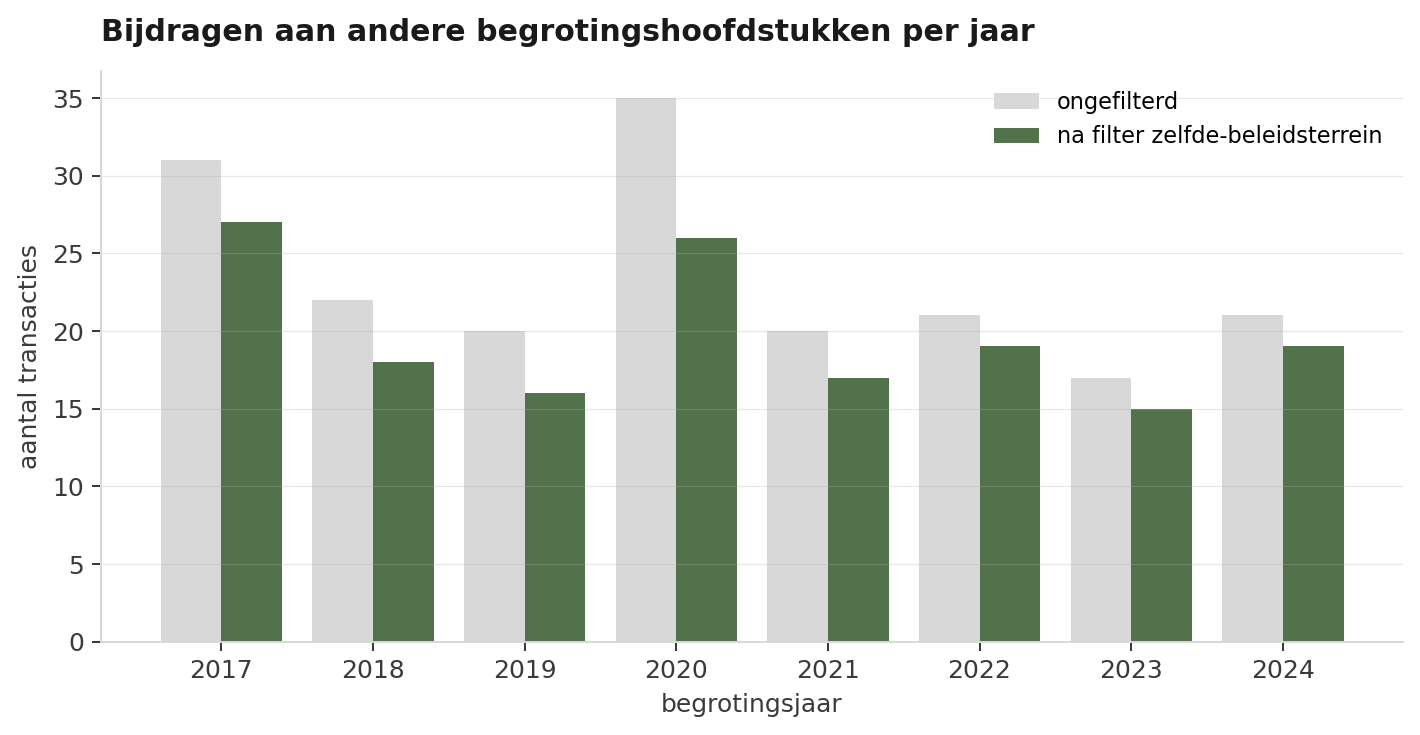
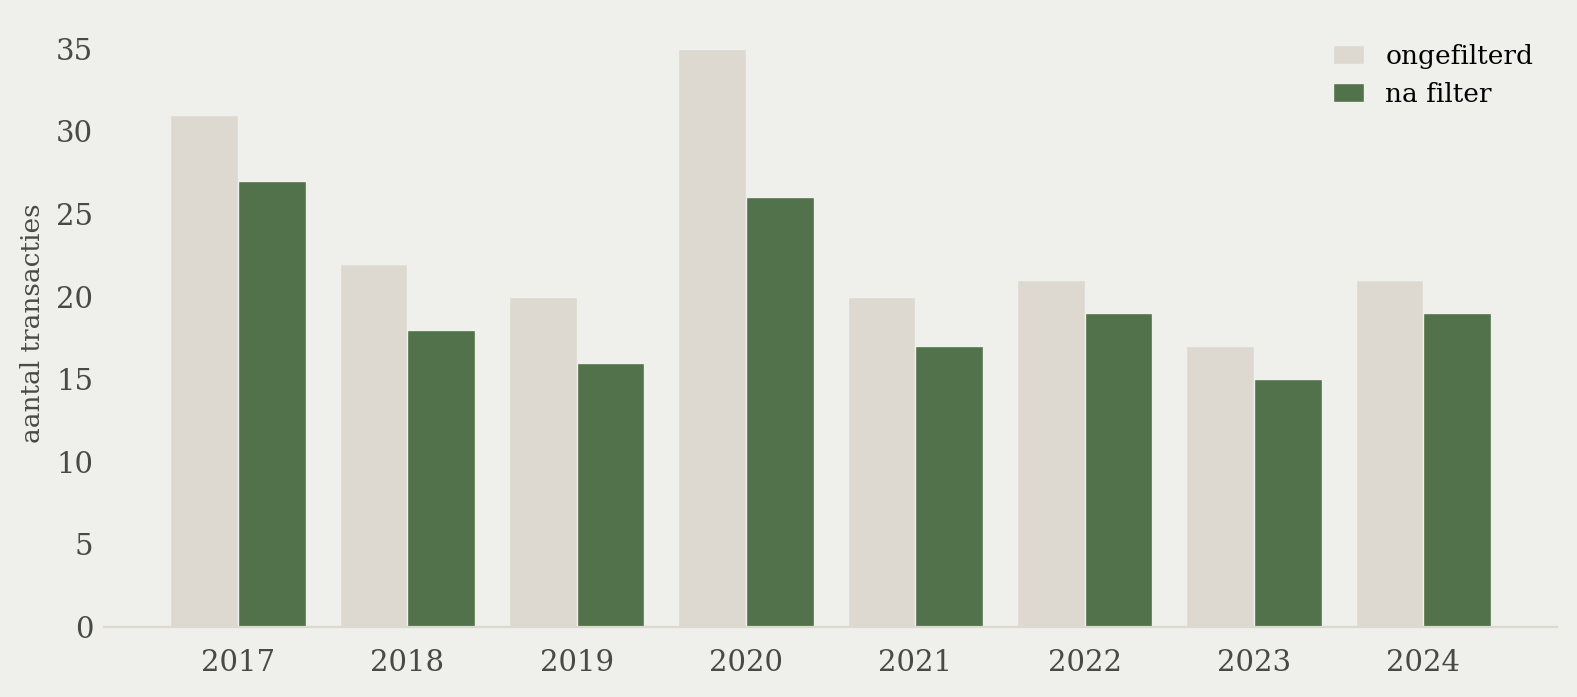
fix: charts in Delta-stijl (offwhite blend, geen titel/border), gefilterde distributie, eindtabel native HTML

diff --git a/artikelen/interdepartementale-geldstromen-rijksbegroting/index.html b/artikelen/interdepartementale-geldstromen-rijksbegroting/index.html
@@ -455,8 +455,6 @@ pre code {
   display: block;
   max-width: 100%;
   height: auto;
-  border: 1px solid var(--c-border);
-  border-radius: 4px;
 }
 .fig figcaption {
   font-size: 0.82rem;
@@ -623,14 +621,14 @@ pre code {
   <div class="mobile-toc-progress"></div>
   <div class="mobile-toc-drawer">
     <ol>
-      <li><a data-target="wat-we-hebben-onderzocht-h2" href="#wat-we-hebben-onderzocht-h2">Wat we hebben onderzocht (H2)</a></li>
-        <li><a data-target="wat-het-op-het-eerste-gezicht-lijkt-en-wat-het-niet-is-h2" href="#wat-het-op-het-eerste-gezicht-lijkt-en-wat-het-niet-is-h2">Wat het op het eerste gezicht lijkt — en wat het niet is (H2)</a></li>
-        <li><a data-target="twee-ministeries-dragen-het-patroon-h2" href="#twee-ministeries-dragen-het-patroon-h2">Twee ministeries dragen het patroon (H2)</a></li>
-        <li><a data-target="zeven-kanalen-die-terugkeren-h2" href="#zeven-kanalen-die-terugkeren-h2">Zeven kanalen die terugkeren (H2)</a></li>
-        <li><a data-target="distributie-niets-staat-op-zichzelf-h2" href="#distributie-niets-staat-op-zichzelf-h2">Distributie: niets staat op zichzelf (H2)</a></li>
-        <li><a data-target="wat-het-instrument-niet-laat-zien-h2" href="#wat-het-instrument-niet-laat-zien-h2">Wat het instrument niet laat zien (H2)</a></li>
-        <li><a data-target="conclusie-h2" href="#conclusie-h2">Conclusie (H2)</a></li>
-        <li><a data-target="methodologie-en-bronnen-h2" href="#methodologie-en-bronnen-h2">Methodologie en bronnen (H2)</a></li>
+      <li><a data-target="wat-we-hebben-onderzocht" href="#wat-we-hebben-onderzocht">Wat we hebben onderzocht</a></li>
+        <li><a data-target="wat-het-op-het-eerste-gezicht-lijkt-en-wat-het-niet-is" href="#wat-het-op-het-eerste-gezicht-lijkt-en-wat-het-niet-is">Wat het op het eerste gezicht lijkt — en wat het niet is</a></li>
+        <li><a data-target="twee-ministeries-dragen-het-patroon" href="#twee-ministeries-dragen-het-patroon">Twee ministeries dragen het patroon</a></li>
+        <li><a data-target="zeven-kanalen-die-terugkeren" href="#zeven-kanalen-die-terugkeren">Zeven kanalen die terugkeren</a></li>
+        <li><a data-target="distributie-niets-staat-op-zichzelf" href="#distributie-niets-staat-op-zichzelf">Distributie: niets staat op zichzelf</a></li>
+        <li><a data-target="wat-het-instrument-niet-laat-zien" href="#wat-het-instrument-niet-laat-zien">Wat het instrument niet laat zien</a></li>
+        <li><a data-target="conclusie" href="#conclusie">Conclusie</a></li>
+        <li><a data-target="methodologie-en-bronnen" href="#methodologie-en-bronnen">Methodologie en bronnen</a></li>
     </ol>
   </div>
 </div>
@@ -644,14 +642,14 @@ pre code {
     <div class="toc-wrap">
       <div class="toc-track"></div>
       <ol>
-        <li><a data-target="wat-we-hebben-onderzocht-h2" href="#wat-we-hebben-onderzocht-h2">Wat we hebben onderzocht (H2)</a></li>
-        <li><a data-target="wat-het-op-het-eerste-gezicht-lijkt-en-wat-het-niet-is-h2" href="#wat-het-op-het-eerste-gezicht-lijkt-en-wat-het-niet-is-h2">Wat het op het eerste gezicht lijkt — en wat het niet is (H2)</a></li>
-        <li><a data-target="twee-ministeries-dragen-het-patroon-h2" href="#twee-ministeries-dragen-het-patroon-h2">Twee ministeries dragen het patroon (H2)</a></li>
-        <li><a data-target="zeven-kanalen-die-terugkeren-h2" href="#zeven-kanalen-die-terugkeren-h2">Zeven kanalen die terugkeren (H2)</a></li>
-        <li><a data-target="distributie-niets-staat-op-zichzelf-h2" href="#distributie-niets-staat-op-zichzelf-h2">Distributie: niets staat op zichzelf (H2)</a></li>
-        <li><a data-target="wat-het-instrument-niet-laat-zien-h2" href="#wat-het-instrument-niet-laat-zien-h2">Wat het instrument niet laat zien (H2)</a></li>
-        <li><a data-target="conclusie-h2" href="#conclusie-h2">Conclusie (H2)</a></li>
-        <li><a data-target="methodologie-en-bronnen-h2" href="#methodologie-en-bronnen-h2">Methodologie en bronnen (H2)</a></li>
+        <li><a data-target="wat-we-hebben-onderzocht" href="#wat-we-hebben-onderzocht">Wat we hebben onderzocht</a></li>
+        <li><a data-target="wat-het-op-het-eerste-gezicht-lijkt-en-wat-het-niet-is" href="#wat-het-op-het-eerste-gezicht-lijkt-en-wat-het-niet-is">Wat het op het eerste gezicht lijkt — en wat het niet is</a></li>
+        <li><a data-target="twee-ministeries-dragen-het-patroon" href="#twee-ministeries-dragen-het-patroon">Twee ministeries dragen het patroon</a></li>
+        <li><a data-target="zeven-kanalen-die-terugkeren" href="#zeven-kanalen-die-terugkeren">Zeven kanalen die terugkeren</a></li>
+        <li><a data-target="distributie-niets-staat-op-zichzelf" href="#distributie-niets-staat-op-zichzelf">Distributie: niets staat op zichzelf</a></li>
+        <li><a data-target="wat-het-instrument-niet-laat-zien" href="#wat-het-instrument-niet-laat-zien">Wat het instrument niet laat zien</a></li>
+        <li><a data-target="conclusie" href="#conclusie">Conclusie</a></li>
+        <li><a data-target="methodologie-en-bronnen" href="#methodologie-en-bronnen">Methodologie en bronnen</a></li>
       </ol>
     </div>
   </aside>
@@ -672,7 +670,7 @@ pre code {
 
     <p class="lead">Ministeries maken geregeld geld over aan andere ministeries. Niet veel, en niet groot, maar vaak genoeg om als structureel patroon zichtbaar te zijn in de rijksjaarverslagen. Tussen 2017 en 2023 staan 157 zulke transacties geboekt onder het instrument *Bijdrage aan andere begrotingshoofdstukken* — samen goed voor circa €1 miljard. Het overgrote deel van dat bedrag zit in zeven herhalende kanalen.</p>
 
-<h2 id="wat-we-hebben-onderzocht-h2">Wat we hebben onderzocht (H2)</h2>
+<h2 id="wat-we-hebben-onderzocht">Wat we hebben onderzocht</h2>
 
 <p>De rijksjaarverslagen leggen voor elke uitgave vast onder welk financieel instrument hij valt. Een van die instrumenten heet, in beleidstaal, *Bijdrage aan (andere) begrotingshoofdstukken*. Het is de boekhoudkundige term voor: dit ministerie betaalt iets dat op de begroting van een ánder ministerie wordt verantwoord.</p>
 
@@ -680,7 +678,7 @@ pre code {
 
 <p>We pakten daarvoor de open dataset *Financiële instrumenten 2017-2024* van rijksfinancien.nl: 292.754 rijen, één per jaarverslag-uitgave, voor alle ministeries en alle financiële instrumenten samen. Filtering op het instrument levert 187 transacties op, verspreid over 17 begrotingen.</p>
 
-<h2 id="wat-het-op-het-eerste-gezicht-lijkt-en-wat-het-niet-is-h2">Wat het op het eerste gezicht lijkt — en wat het niet is (H2)</h2>
+<h2 id="wat-het-op-het-eerste-gezicht-lijkt-en-wat-het-niet-is">Wat het op het eerste gezicht lijkt — en wat het niet is</h2>
 
 <div class="kpi-row"><div class="kpi"><div class="kpi-num">187</div><div class="kpi-label">transacties met instrument <em>Bijdrage aan andere begrotingshoofdstukken</em>, 2017-2024</div></div><div class="kpi"><div class="kpi-num">€27 mrd</div><div class="kpi-label">totale boekwaarde — ongefilterd</div></div><div class="kpi"><div class="kpi-num">17</div><div class="kpi-label">unieke gevende begrotingen</div></div></div>
 
@@ -692,7 +690,7 @@ pre code {
 
 <figure class="fig"><img src="vis_1_per_jaar.png" alt="Aantal transacties per jaar, ongefilterd vs. na filter zelfde-beleidsterrein"><figcaption>Figuur 1 — Aantal transacties per jaar. De grijze balken tonen de ruwe data, de groene wat overblijft na filtering van zelfde-beleidsterrein boekingen.</figcaption></figure>
 
-<h2 id="twee-ministeries-dragen-het-patroon-h2">Twee ministeries dragen het patroon (H2)</h2>
+<h2 id="twee-ministeries-dragen-het-patroon">Twee ministeries dragen het patroon</h2>
 
 <p>Wie maakt dit geld over? Het aandeel *Bijdrage aan andere begrotingshoofdstukken* in de totale programma-uitgaven van een ministerie is een ruwe maat voor hoe afhankelijk dat ministerie is van inter-departementaal geldverkeer. Twee ministeries vallen op.</p>
 
@@ -706,11 +704,11 @@ pre code {
 
 <p>De andere ministeries — BZK, VWS, BHOS — kennen incidentele pieken (LNV in 2020 door een stikstof-overheveling) maar geen structureel patroon op dit instrument.</p>
 
-<h2 id="zeven-kanalen-die-terugkeren-h2">Zeven kanalen die terugkeren (H2)</h2>
+<h2 id="zeven-kanalen-die-terugkeren">Zeven kanalen die terugkeren</h2>
 
 <p>Wanneer je kijkt naar individuele transacties die expliciet een ander Nederlands ministerie als ontvanger noemen, of die door jaarverslagen herleidbaar zijn tot een specifieke samenwerking, blijven zeven herhalende geldstromen over.</p>
 
-<figure class="fig"><img src="vis_4_eindtabel.png" alt="Tabel met zeven geverifieerde inter-ministeriële geldstromen"><figcaption>Figuur 4 — Geverifieerde structurele inter-ministeriële geldstromen, 2017-2023. Totaal cumulatief ongeveer €412 miljoen.</figcaption></figure>
+<div class="table-wrap"><table><thead><tr><th>Gever</th><th>Ontvanger</th><th>Doel</th><th>Periode</th><th>Cumulatief</th></tr></thead><tbody><tr><td data-label="Gever">DEF</td><td data-label="Ontvanger">EZK (TNO/NLR/MARIN)</td><td data-label="Doel">Kennisopbouw</td><td data-label="Periode">2020–2023</td><td data-label="Cumulatief">€301,1 mln</td></tr><tr><td data-label="Gever">KR</td><td data-label="Ontvanger">DEF</td><td data-label="Doel">Kustwacht / grenstoezicht Caribisch</td><td data-label="Periode">2017–2023</td><td data-label="Cumulatief">€72,2 mln</td></tr><tr><td data-label="Gever">KR</td><td data-label="Ontvanger">JenV</td><td data-label="Doel">Rechterlijke macht Caribisch (RST)</td><td data-label="Periode">2017–2022</td><td data-label="Cumulatief">€24,1 mln</td></tr><tr><td data-label="Gever">BHOS</td><td data-label="Ontvanger">IenW / LNV / BZK</td><td data-label="Doel">Functionerende rechtsorde</td><td data-label="Periode">2020–2023</td><td data-label="Cumulatief">€12,3 mln</td></tr><tr><td data-label="Gever">BZ</td><td data-label="Ontvanger">JenV</td><td data-label="Doel">Cyber security</td><td data-label="Periode">2022–2023</td><td data-label="Cumulatief">€1,4 mln</td></tr><tr><td data-label="Gever">OCW</td><td data-label="Ontvanger">BZ</td><td data-label="Doel">Vlaams-Nederlandshuis deBuren</td><td data-label="Periode">2023</td><td data-label="Cumulatief">€0,96 mln</td></tr><tr><td data-label="Gever">BZK</td><td data-label="Ontvanger">BZ / FIN</td><td data-label="Doel">Bedrijfsvoeringsbeleid</td><td data-label="Periode">2021–2023</td><td data-label="Cumulatief">€0,62 mln</td></tr></tbody></table></div>
 
 <p>De Defensie-EZK kennisopbouw is met €301 miljoen verreweg de grootste. Die loopt al langer maar is sinds 2020 sterk geïntensiveerd — in 2023 alleen al €157 miljoen. Het mechanisme: Defensie heeft een onderzoeksbehoefte op een toepassingsgebied (luchtvaarttechnologie, maritieme systemen, dual-use technologie), het toegepast onderzoek zit institutioneel bij TNO/NLR/MARIN onder het EZK-domein, en in plaats van een eigen Defensie-onderzoeksinstituut op te tuigen wordt het bestaande netwerk gebruikt en betaald via een interbudgettaire overboeking.</p>
 
@@ -718,13 +716,13 @@ pre code {
 
 <p>De kleinere kanalen — BHOS dat bijdraagt aan IenW/LNV/BZK voor *functionerende rechtsorde*, BZ → JenV voor cyber security, OCW → BZ voor het Vlaams-Nederlands cultuurhuis deBuren — zijn hetzelfde patroon op kleinere schaal: een gedeeld doel, één natuurlijke uitvoerder, twee betrokken begrotingen.</p>
 
-<h2 id="distributie-niets-staat-op-zichzelf-h2">Distributie: niets staat op zichzelf (H2)</h2>
+<h2 id="distributie-niets-staat-op-zichzelf">Distributie: niets staat op zichzelf</h2>
 
-<figure class="fig"><img src="vis_5_distributie.png" alt="Distributie transactiebedragen op log-schaal"><figcaption>Figuur 5 — Verdeling van transactiebedragen op log-schaal. De mediaan ligt rond €0,6 miljoen, met een lange staart richting €100M+.</figcaption></figure>
+<figure class="fig"><img src="vis_5_distributie.png" alt="Distributie transactiebedragen op log-schaal"><figcaption>Figuur 5 — Verdeling van transactiebedragen na filtering, op log-schaal. De mediaan ligt rond €0,5 miljoen, met een staart richting €100M+.</figcaption></figure>
 
-<p>De verdeling van transactiebedragen is zwaar scheef. **57% van de transacties is kleiner dan €1 miljoen**, 80% kleiner dan €10 miljoen, en de top-15 transacties — 8% van het totaal — beslaan ruim driekwart van de gefilterde geldwaarde. Het beeld is dus niet één van diffuse miljoenenstromen, maar van een lange staart van kleine, vaak terugkerende boekingen plus een handvol grote, doelgerichte transfers.</p>
+<p>De verdeling van transactiebedragen is zwaar scheef. 61% van de gefilterde transacties is kleiner dan €1 miljoen, ruim 80% kleiner dan €10 miljoen, en een handvol uitschieters in de €50–200 miljoen range domineren de geldwaarde. Het beeld is dus niet één van diffuse miljoenenstromen, maar van een lange staart van kleine, vaak terugkerende boekingen plus een handvol grote, doelgerichte transfers.</p>
 
-<h2 id="wat-het-instrument-niet-laat-zien-h2">Wat het instrument niet laat zien (H2)</h2>
+<h2 id="wat-het-instrument-niet-laat-zien">Wat het instrument niet laat zien</h2>
 
 <p>Belangrijk om bij te zeggen: *Bijdrage aan andere begrotingshoofdstukken* is één van veertien financiële instrumenten in de Rijksbegrotingsvoorschriften. Veel inter-departementale financiering loopt via andere kanalen die in deze dataset niet meekomen.</p>
 
@@ -732,7 +730,7 @@ pre code {
 
 <p>Dat betekent: de €1 miljard uit dit onderzoek is een ondergrens. Het werkelijke volume aan inter-departementale financiering is een veelvoud, alleen niet zichtbaar onder dit ene instrument.</p>
 
-<h2 id="conclusie-h2">Conclusie (H2)</h2>
+<h2 id="conclusie">Conclusie</h2>
 
 <p>De rijksoverheid kent een handvol structurele kanalen waarmee ministeries elkaar gericht financieren voor gedeelde capaciteit. Ze zijn niet groot in macro-economische zin (€1 miljard over zeven jaar, op een totaal van honderden miljarden rijksuitgaven), maar wel duidelijk patroonmatig. Twee logica's keren steeds terug:</p>
 
@@ -742,27 +740,27 @@ pre code {
 
 <p>Voor wie nieuwe gedeelde capaciteit wil financieren — bijvoorbeeld een rijksbreed AI-instituut of een centraal data-platform — is dat goed nieuws: het bestuurlijke en boekhoudkundige instrumentarium is er al, en wordt regelmatig gebruikt. De rem ligt elders: in de bereidheid om eigenaarschap te delen, niet in de boekhouding.</p>
 
-<h2 id="methodologie-en-bronnen-h2">Methodologie en bronnen (H2)</h2>
+<h2 id="methodologie-en-bronnen">Methodologie en bronnen</h2>
 
-<h3>Databron (H3)</h3>
+<h3>Databron</h3>
 
 <p><a class="inline-link" href="https://www.rijksfinancien.nl/open-data/Financi%C3%ABle%20Instrumenten">Financiële instrumenten 2017-2024</a> van rijksfinancien.nl/open-data. CSV met scheidingsteken puntkomma, 292.754 rijen voor alle ministeries en alle veertien instrumenten samen. Bedragen in x1000 EUR. Juridische grondslag van het instrument: Rijksbegrotingsvoorschriften (RBV), Comptabiliteitswet 2016 art. 2.3 en 2.26.</p>
 
-<h3>Bewerking (H3)</h3>
+<h3>Bewerking</h3>
 
 <p>Filter op <code>Instrument == "bijdrage aan (andere) begrotingshoofdstukken"</code> levert 187 rijen. Daarvan vielen 30 rijen af als zelfde-beleidsterrein boekingen (IenW-fondsen, EZK-reserves, Diergezondheidsfonds, Veiligheidsfonds, BZK-VPB-betalingen aan de Belastingdienst). Resterend: 157 rijen, €0,98 miljard cumulatief 2017-2023.</p>
 
 <p>Aandeel per ministerie per jaar berekend als: bijdrage gedeeld door totale programma-uitgaven van dat ministerie in datzelfde jaar (alle financiële instrumenten samen). De noemer is dus alléén programma-uitgaven, geen apparaat. Voor Defensie betekent dat dat de 21-42% niet over het hele Defensie-budget gaat, maar over de programma-deelset van Defensie in deze dataset.</p>
 
-<h3>Verificatie individuele rijen (H3)</h3>
+<h3>Verificatie individuele rijen</h3>
 
 <p>Voor de eindtabel zijn alleen rijen opgenomen die ofwel een expliciet ministerie als ontvanger noemen, ofwel via de regelingsnaam plus jaarverslag-tekst herleidbaar zijn naar een specifiek samenwerkingsverband. Geverifieerd tegen jaarverslagen Defensie 2020-2023, jaarverslagen Koninkrijksrelaties 2019-2023, jaarverslagen BZK 2022-2023, en Kamerstuk 35570 IV nr. 33.</p>
 
-<h3>Bekende beperkingen (H3)</h3>
+<h3>Bekende beperkingen</h3>
 
 <ul><li>Dataset bevat alleen programma-uitgaven, geen apparaat- of agentschapskosten.</li><li>Overboekingen via suppletoire begrotingen (technische mutaties) zijn niet zichtbaar.</li><li>DVO's en opdrachten binnen bestaand budget verschijnen onder andere instrumenten.</li><li>2024-data was ten tijde van download nog onvolledig (jaarverslagen deels niet gepubliceerd).</li><li>Ontvangers tot 2021 vaak geanonimiseerd in de bron; vanaf 2021 vaker expliciet benoemd.</li></ul>
 
-<h3>Bestanden (H3)</h3>
+<h3>Bestanden</h3>
 
 <div class="table-wrap"><table><thead><tr><th>Bestand</th><th>Inhoud</th></tr></thead><tbody><tr><td data-label="Bestand">Financiele_instrumenten_2017-2024.csv</td><td data-label="Inhoud">Ruwe data van rijksfinancien.nl</td></tr><tr><td data-label="Bestand">analyse_fase1.py</td><td data-label="Inhoud">Filtering, top-N, distributie, categorisering</td></tr><tr><td data-label="Bestand">analyse_fase2.py</td><td data-label="Inhoud">Zelfde-beleidsterrein filter, aandeel per ministerie, verificatie</td></tr><tr><td data-label="Bestand">visualisaties.py</td><td data-label="Inhoud">Heatmap, trendlijn, eindtabel, distributie</td></tr><tr><td data-label="Bestand">verified_flows.csv</td><td data-label="Inhoud">Zeven geverifieerde inter-ministeriële kanalen</td></tr></tbody></table></div>
 
